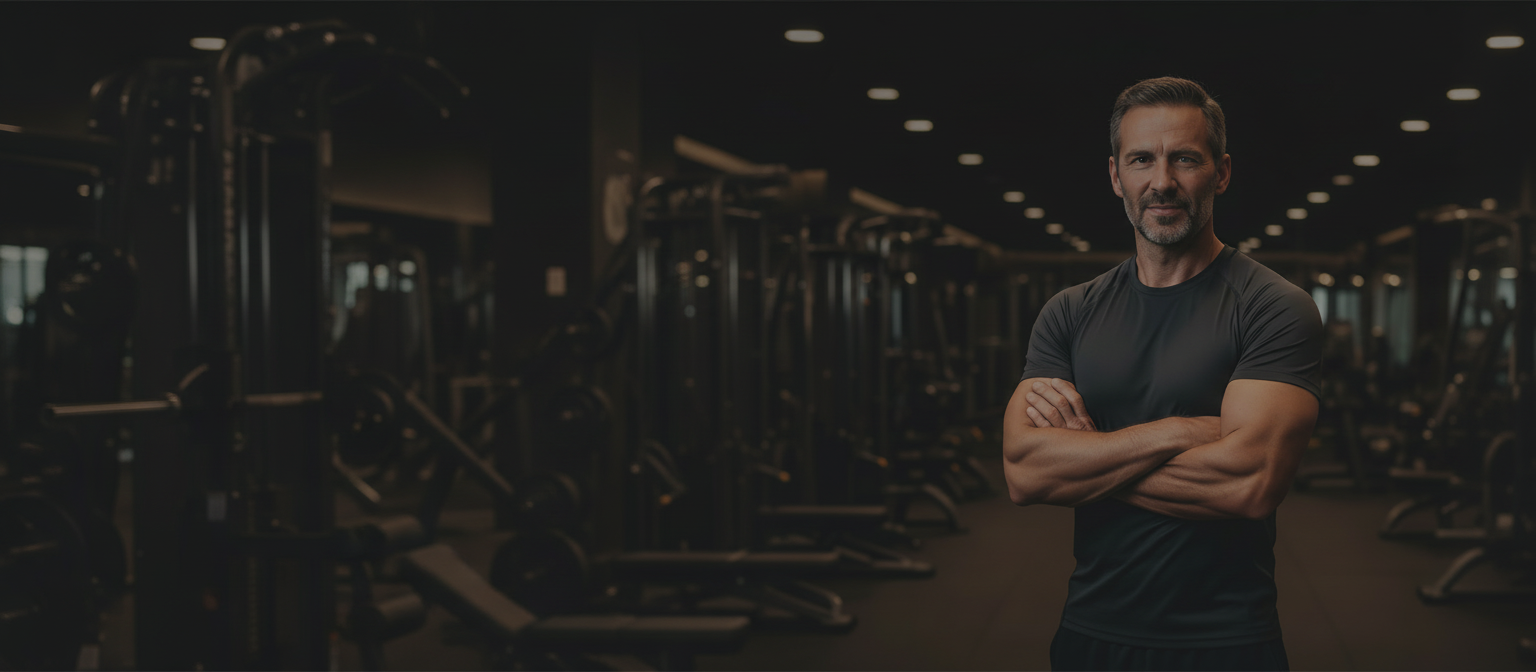
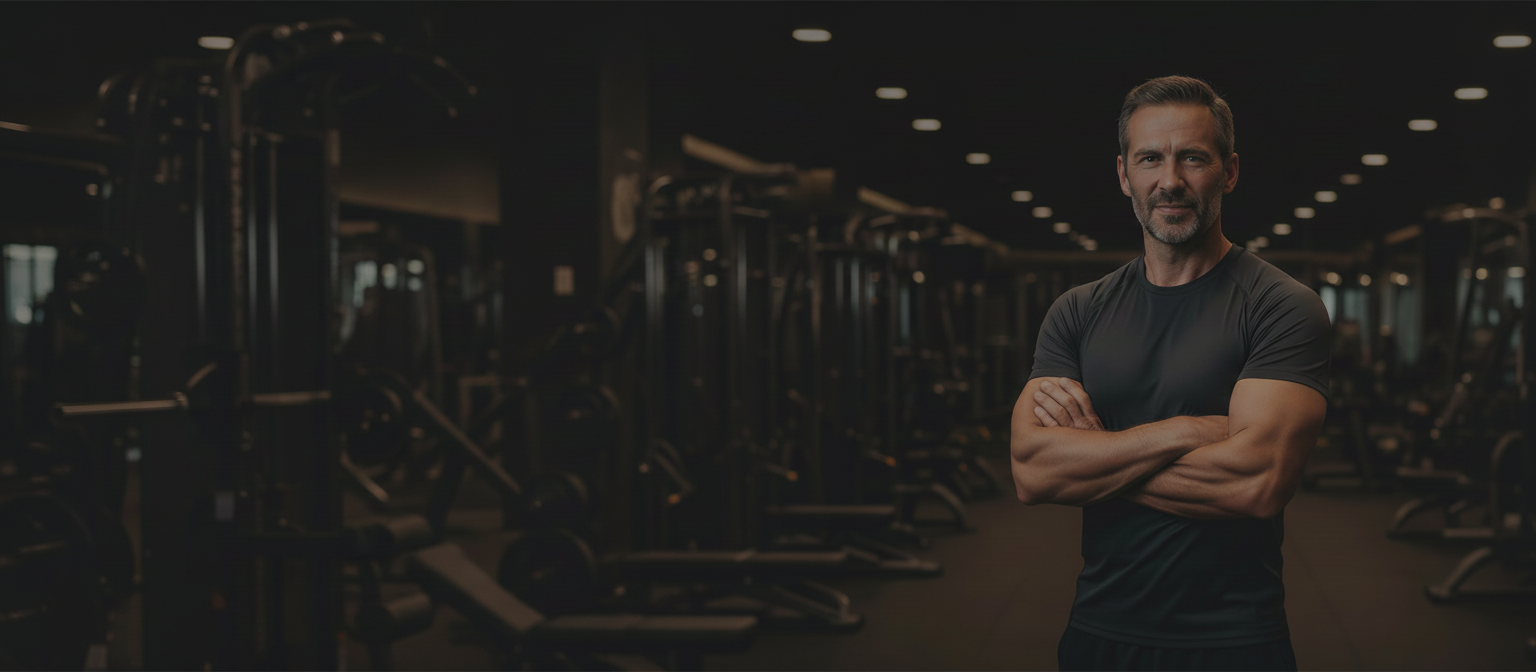
Changes

diff --git a/src/components/layout/BannerAd.tsx b/src/components/layout/BannerAd.tsx
@@ -11,12 +11,12 @@ const BannerAd = () => (
     <img
       src={straplineBg}
       alt=""
-      className="w-full h-[130px] md:h-[170px] object-cover object-center"
+      className="w-full h-[140px] md:h-[190px] object-cover object-center"
     />
     {/* Text overlay */}
     <div className="absolute inset-0 flex items-center">
       <div className="editorial-wide flex w-full items-center justify-between gap-4">
-        <p className="font-serif text-base md:text-xl lg:text-2xl font-semibold text-white leading-tight max-w-[60%]">
+        <p className="font-serif text-lg md:text-2xl lg:text-3xl font-semibold text-white leading-tight max-w-[60%]">
           How The Best Gyms Are Quietly Becoming Longevity Hubs{" "}
           <span className="italic font-normal">(and adding $10-50k a month)</span>
         </p>
